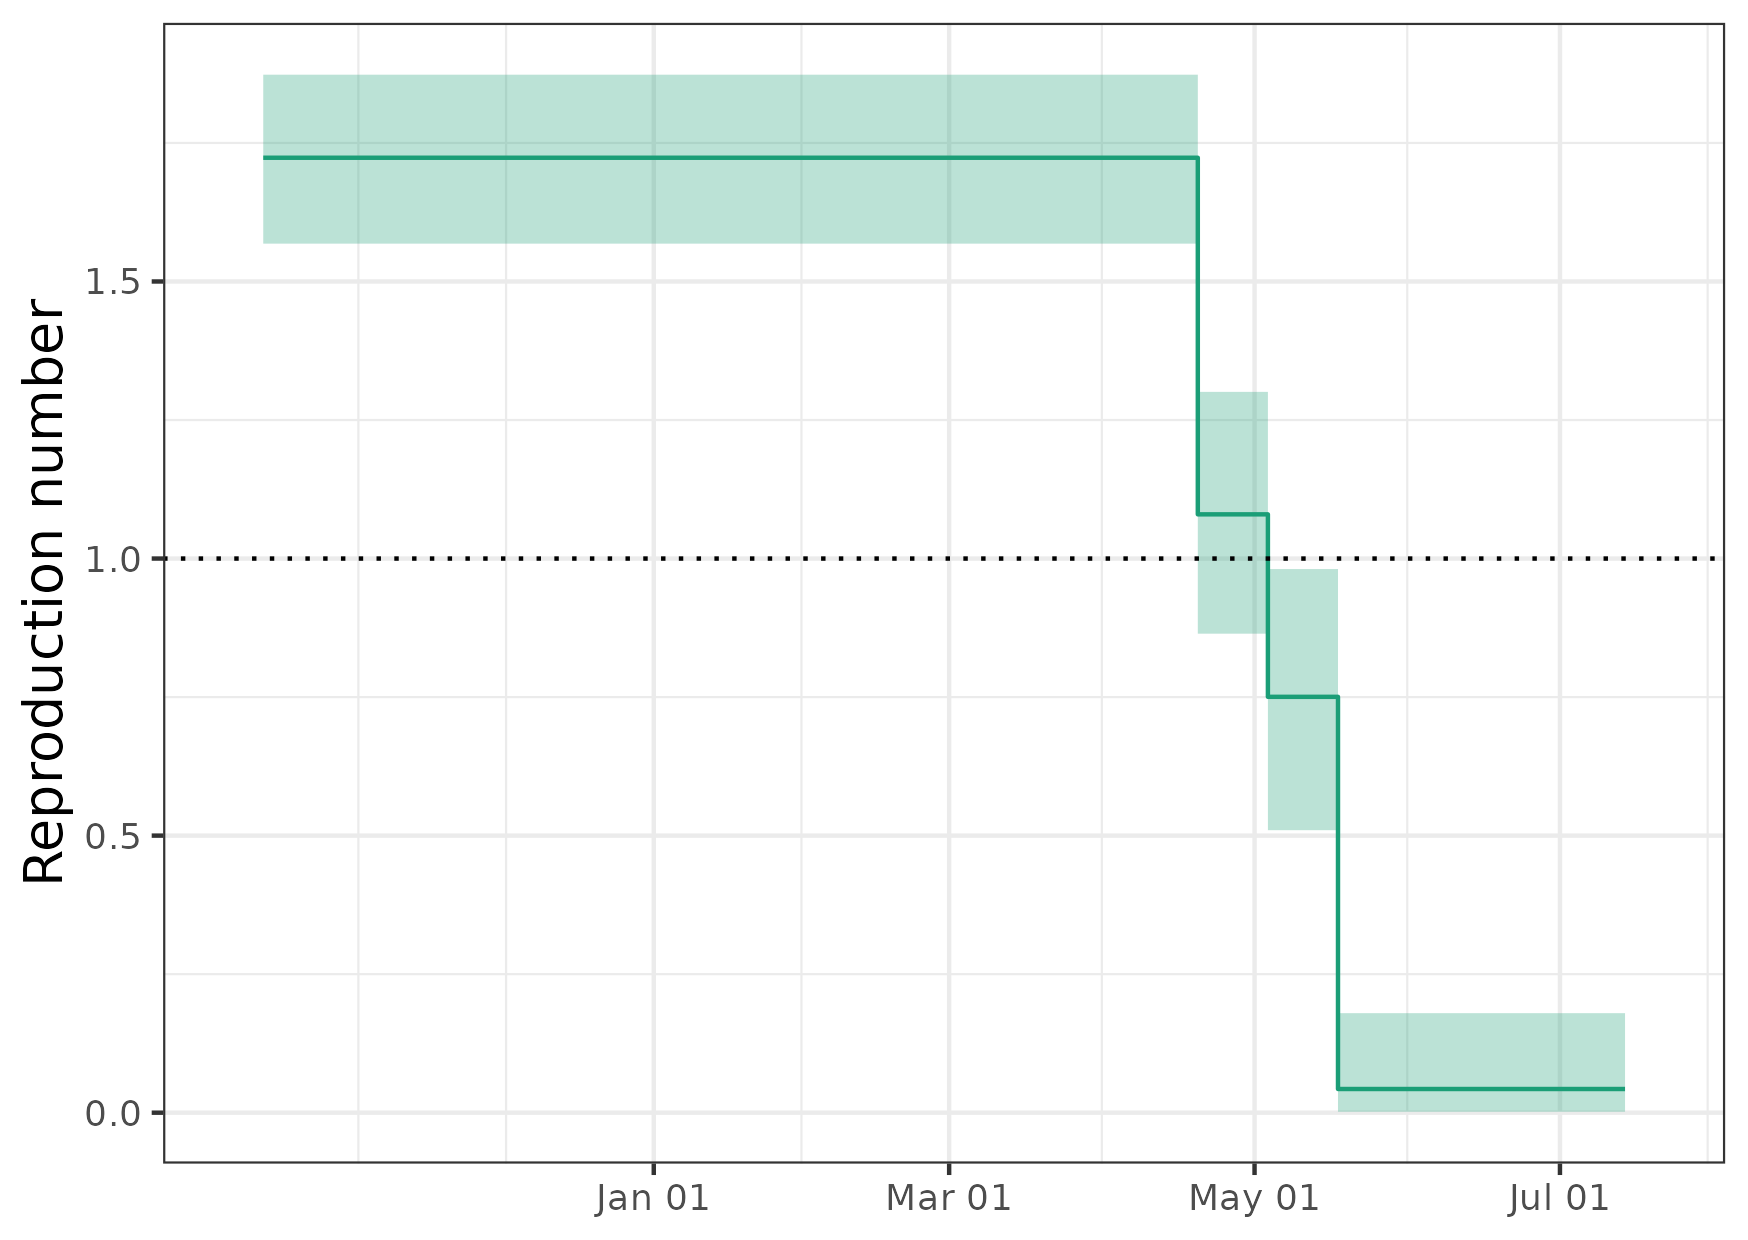
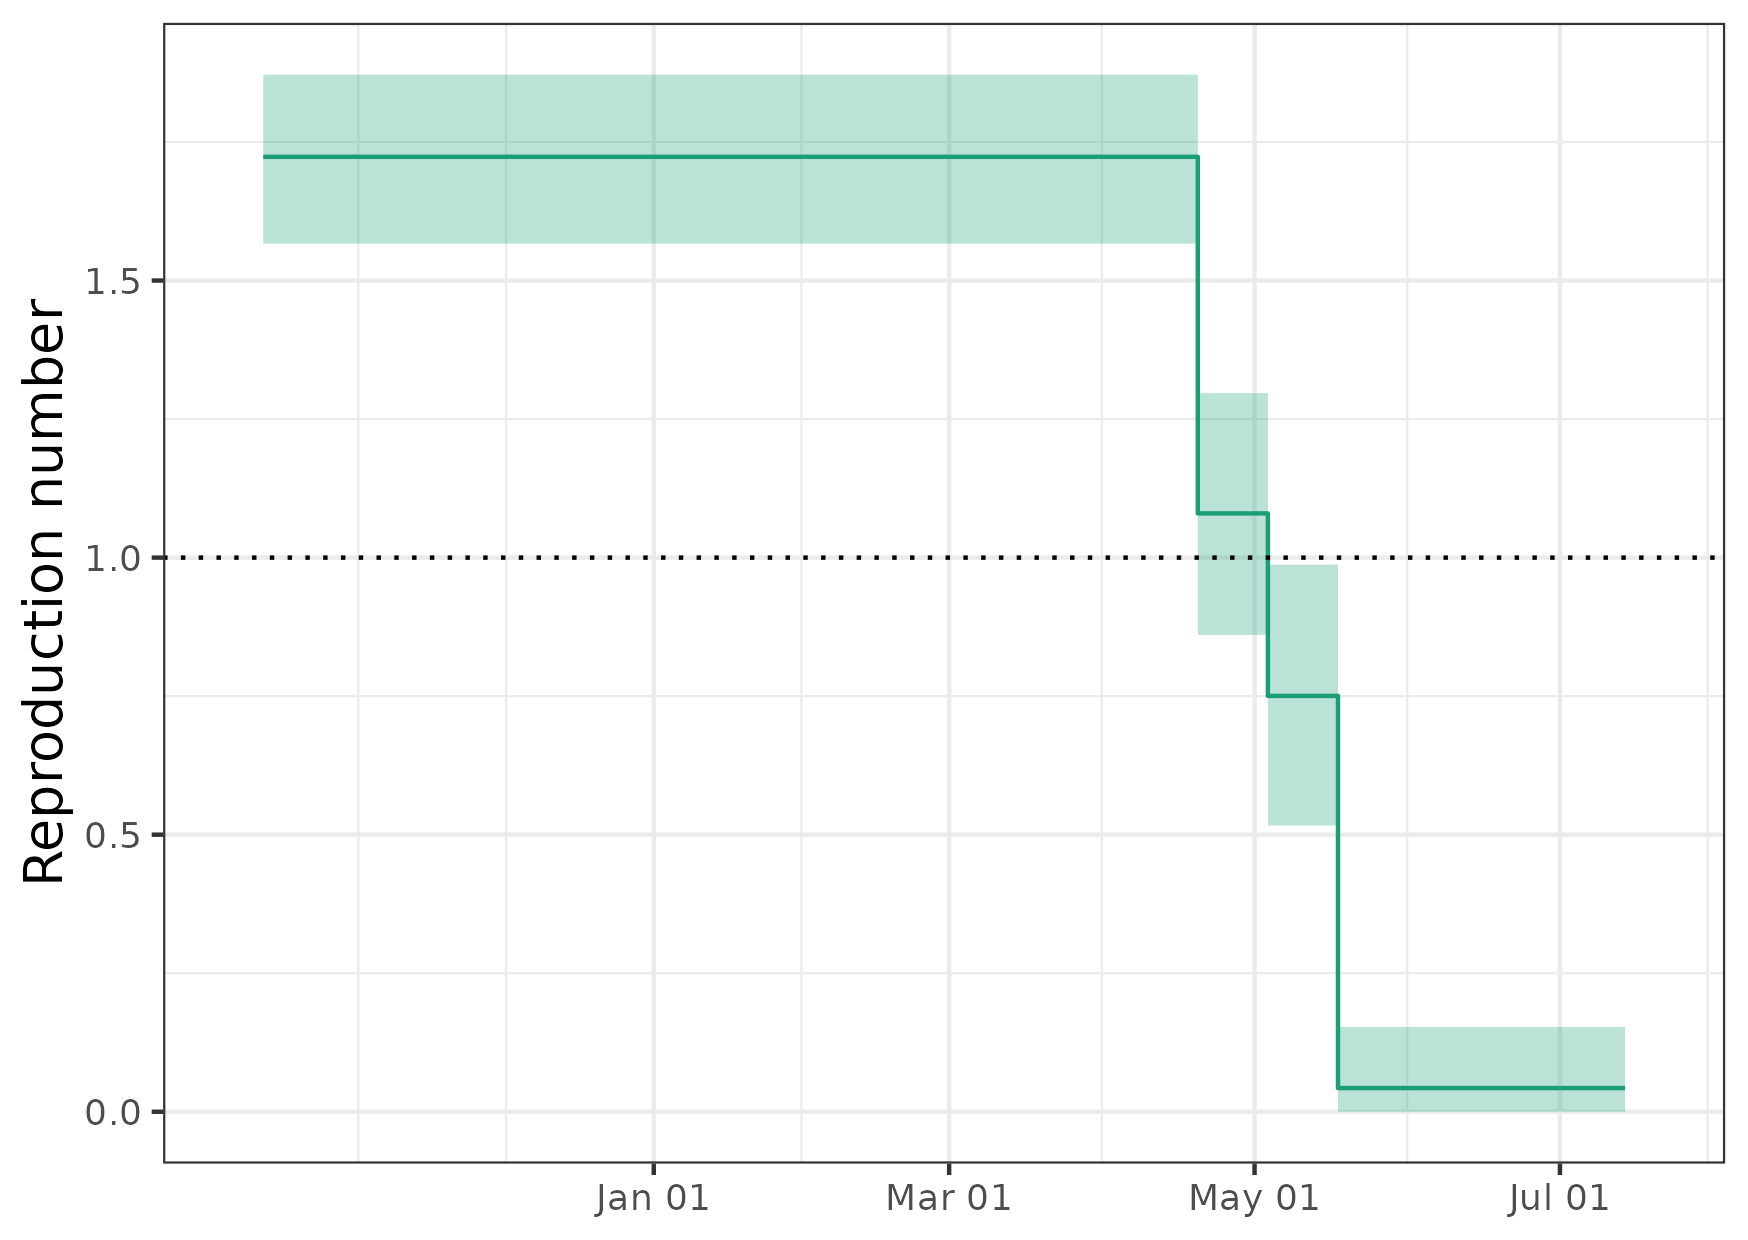
update results

Changed region(s): [[0.7723, 0.8581, 0.9268, 0.8887], [0.7723, 0.7968, 0.9268, 0.8274], [0.7414, 0.429, 0.7723, 0.4597]]

diff --git a/out/manuscript/parameter-estimates.tex b/out/manuscript/parameter-estimates.tex
@@ -1,5 +1,5 @@
 % latex table generated in R 4.3.0 by xtable 1.8-4 package
-% Fri Feb  2 10:34:43 2024
+% Mon Mar  4 13:27:56 2024
 \begin{table}[ht]
 \centering
 \begin{tabular}{lrrr}
@@ -7,12 +7,12 @@
 variable & est & cri\_lower & cri\_upper \\ 
   \hline
 r\_eff\_1 & 1.72E+00 & 1.57E+00 & 1.87E+00 \\ 
-  r\_eff\_2 & 1.08E+00 & 8.64E-01 & 1.30E+00 \\ 
-  r\_eff\_3 & 7.50E-01 & 5.10E-01 & 9.81E-01 \\ 
-  r\_eff\_4 & 4.27E-02 & 1.69E-03 & 1.80E-01 \\ 
-  p\_psi & 1.58E-03 & 8.04E-04 & 2.78E-03 \\ 
-  p\_ts & 4.71E-03 & 2.44E-03 & 8.17E-03 \\ 
-  sigma & 1.08E-01 & 1.00E-01 & 1.31E-01 \\ 
+  r\_eff\_2 & 1.08E+00 & 8.61E-01 & 1.30E+00 \\ 
+  r\_eff\_3 & 7.50E-01 & 5.17E-01 & 9.87E-01 \\ 
+  r\_eff\_4 & 4.27E-02 & 4.08E-07 & 1.53E-01 \\ 
+  p\_psi & 1.58E-03 & 7.03E-04 & 2.63E-03 \\ 
+  p\_ts & 4.71E-03 & 2.20E-03 & 7.82E-03 \\ 
+  sigma & 1.08E-01 & 1.00E-01 & 1.26E-01 \\ 
    \hline
 \end{tabular}
 \end{table}
